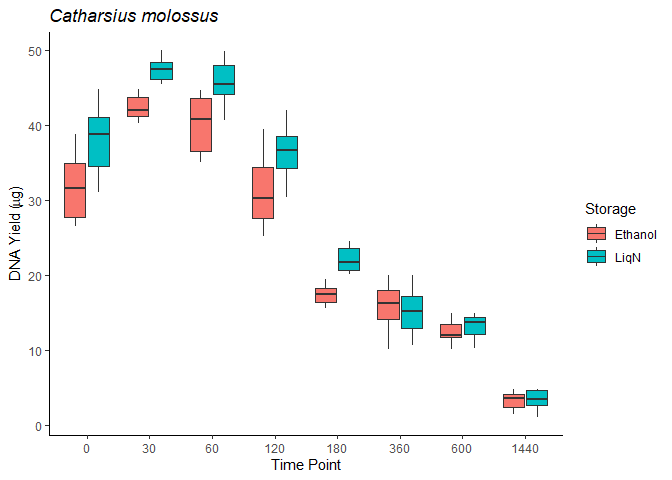
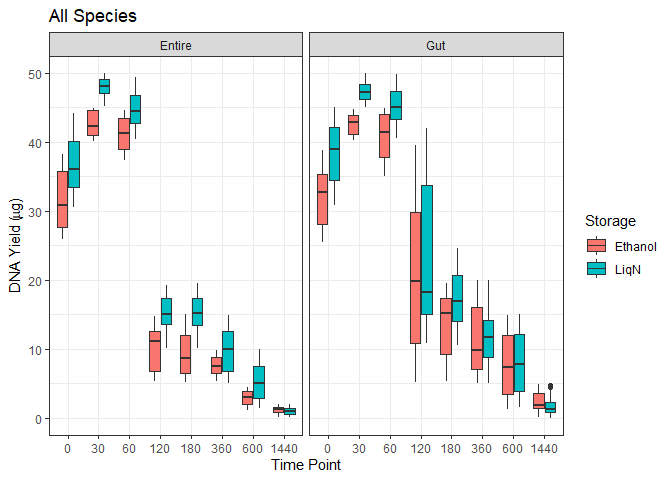
Commit to development branch from XR RStudio

diff --git a/data/yield.md b/data/yield.md
@@ -60,6 +60,18 @@ yield_Onthophagus <- yield %>% filter(Species == "Onthophagus_babirussa")
 ### Plot data
 
 ``` r
+yield %>% ggplot()+
+  geom_boxplot(aes(x=TimePt, y=DNAYield, fill=Storage))+
+  facet_wrap(~Extraction)+
+  xlab("Time Point")+
+  ylab(expression(paste("DNA Yield (", mu, "g)"))) +
+  ggtitle("All Species")+
+  theme_bw()
+```
+
+![](yield_files/figure-gfm/plot-1.png)<!-- -->
+
+``` r
 yield_Catharsius %>% ggplot()+
   geom_boxplot(aes(x=TimePt, y=DNAYield, fill=Storage))+
   xlab("Time Point")+
@@ -68,7 +80,7 @@ yield_Catharsius %>% ggplot()+
   theme_classic()
 ```
 
-![](yield_files/figure-gfm/plot-1.png)<!-- -->
+![](yield_files/figure-gfm/plot-2.png)<!-- -->
 
 ``` r
 yield_Paragymnopleurus %>% ggplot()+
@@ -79,7 +91,7 @@ yield_Paragymnopleurus %>% ggplot()+
   theme_classic()
 ```
 
-![](yield_files/figure-gfm/plot-2.png)<!-- -->
+![](yield_files/figure-gfm/plot-3.png)<!-- -->
 
 ``` r
 yield_Onthophagus %>% ggplot()+
@@ -91,9 +103,59 @@ yield_Onthophagus %>% ggplot()+
   theme_bw()
 ```
 
-![](yield_files/figure-gfm/plot-3.png)<!-- -->
+![](yield_files/figure-gfm/plot-4.png)<!-- -->
 
 ### Linear models
+
+#### All species models
+
+``` r
+m1 <- lm(DNAYield~TimePt + Storage + Extraction, data=yield)
+m2 <- lm(DNAYield~TimePt * Storage + Extraction, data=yield)
+anova(m1,m2)
+```
+
+    ## Analysis of Variance Table
+    ## 
+    ## Model 1: DNAYield ~ TimePt + Storage + Extraction
+    ## Model 2: DNAYield ~ TimePt * Storage + Extraction
+    ##   Res.Df   RSS Df Sum of Sq      F    Pr(>F)    
+    ## 1   1270 26557                                  
+    ## 2   1263 25115  7    1442.4 10.363 1.081e-12 ***
+    ## ---
+    ## Signif. codes:  0 '***' 0.001 '**' 0.01 '*' 0.05 '.' 0.1 ' ' 1
+
+``` r
+m3 <- lm(DNAYield~TimePt + Storage + Extraction + TimePt:Storage + TimePt:Extraction, data=yield)
+anova(m2, m3)
+```
+
+    ## Analysis of Variance Table
+    ## 
+    ## Model 1: DNAYield ~ TimePt * Storage + Extraction
+    ## Model 2: DNAYield ~ TimePt + Storage + Extraction + TimePt:Storage + TimePt:Extraction
+    ##   Res.Df   RSS Df Sum of Sq      F    Pr(>F)    
+    ## 1   1263 25115                                  
+    ## 2   1256 22924  7    2190.4 17.144 < 2.2e-16 ***
+    ## ---
+    ## Signif. codes:  0 '***' 0.001 '**' 0.01 '*' 0.05 '.' 0.1 ' ' 1
+
+``` r
+anova(m3)
+```
+
+    ## Analysis of Variance Table
+    ## 
+    ## Response: DNAYield
+    ##                     Df Sum Sq Mean Sq  F value    Pr(>F)    
+    ## TimePt               7 327604   46801 2564.158 < 2.2e-16 ***
+    ## Storage              1   2332    2332  127.746 < 2.2e-16 ***
+    ## Extraction           1   1750    1750   95.882 < 2.2e-16 ***
+    ## TimePt:Storage       7   1442     206   11.290 6.193e-14 ***
+    ## TimePt:Extraction    7   2190     313   17.144 < 2.2e-16 ***
+    ## Residuals         1256  22924      18                       
+    ## ---
+    ## Signif. codes:  0 '***' 0.001 '**' 0.01 '*' 0.05 '.' 0.1 ' ' 1
 
 #### *Catharsius molossus* models
 
@@ -203,55 +265,5 @@ anova(onthophagus_m3)
     ## Storage          1   1386  1386.1  241.710 < 2.2e-16 ***
     ## TimePt:Storage   7   1000   142.9   24.913 < 2.2e-16 ***
     ## Residuals      624   3578     5.7                       
-    ## ---
-    ## Signif. codes:  0 '***' 0.001 '**' 0.01 '*' 0.05 '.' 0.1 ' ' 1
-
-#### All species models
-
-``` r
-m1 <- lm(DNAYield~TimePt + Storage + Extraction, data=yield)
-m2 <- lm(DNAYield~TimePt * Storage + Extraction, data=yield)
-anova(m1,m2)
-```
-
-    ## Analysis of Variance Table
-    ## 
-    ## Model 1: DNAYield ~ TimePt + Storage + Extraction
-    ## Model 2: DNAYield ~ TimePt * Storage + Extraction
-    ##   Res.Df   RSS Df Sum of Sq      F    Pr(>F)    
-    ## 1   1270 26557                                  
-    ## 2   1263 25115  7    1442.4 10.363 1.081e-12 ***
-    ## ---
-    ## Signif. codes:  0 '***' 0.001 '**' 0.01 '*' 0.05 '.' 0.1 ' ' 1
-
-``` r
-m3 <- lm(DNAYield~TimePt + Storage + Extraction + TimePt:Storage + TimePt:Extraction, data=yield)
-anova(m2, m3)
-```
-
-    ## Analysis of Variance Table
-    ## 
-    ## Model 1: DNAYield ~ TimePt * Storage + Extraction
-    ## Model 2: DNAYield ~ TimePt + Storage + Extraction + TimePt:Storage + TimePt:Extraction
-    ##   Res.Df   RSS Df Sum of Sq      F    Pr(>F)    
-    ## 1   1263 25115                                  
-    ## 2   1256 22924  7    2190.4 17.144 < 2.2e-16 ***
-    ## ---
-    ## Signif. codes:  0 '***' 0.001 '**' 0.01 '*' 0.05 '.' 0.1 ' ' 1
-
-``` r
-anova(m3)
-```
-
-    ## Analysis of Variance Table
-    ## 
-    ## Response: DNAYield
-    ##                     Df Sum Sq Mean Sq  F value    Pr(>F)    
-    ## TimePt               7 327604   46801 2564.158 < 2.2e-16 ***
-    ## Storage              1   2332    2332  127.746 < 2.2e-16 ***
-    ## Extraction           1   1750    1750   95.882 < 2.2e-16 ***
-    ## TimePt:Storage       7   1442     206   11.290 6.193e-14 ***
-    ## TimePt:Extraction    7   2190     313   17.144 < 2.2e-16 ***
-    ## Residuals         1256  22924      18                       
     ## ---
     ## Signif. codes:  0 '***' 0.001 '**' 0.01 '*' 0.05 '.' 0.1 ' ' 1
